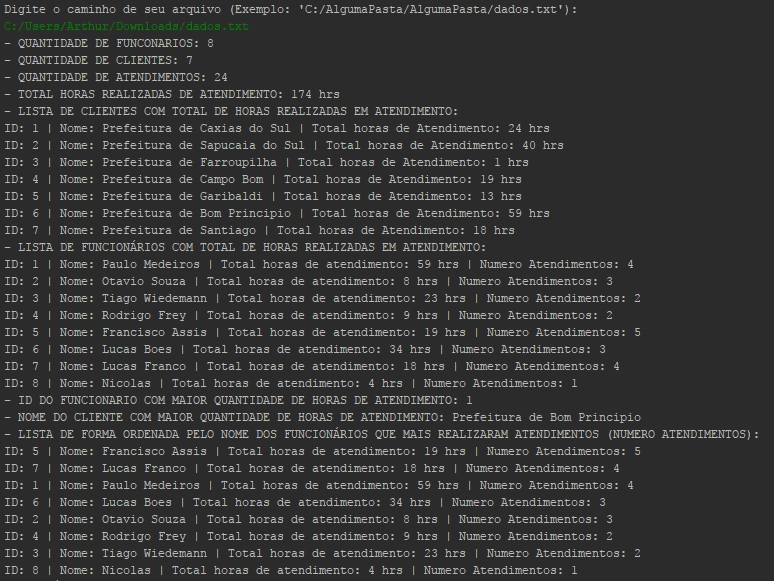
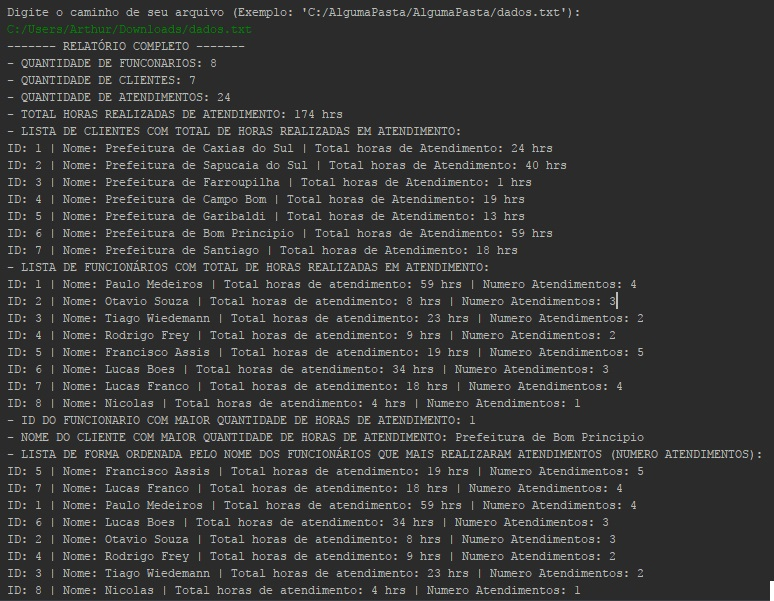
doc(img): implementar imagem de demonstração de funcionamento.

Changed region(s): [[0.0, 0.0, 0.9922, 0.9914], [0.9922, 0.9604, 1.0, 1.0]]

diff --git a/DesafioInfisc/src/desafioinfisc/DesafioInfisc.java b/DesafioInfisc/src/desafioinfisc/DesafioInfisc.java
@@ -46,7 +46,9 @@ public class DesafioInfisc {
         FuncionarioService funcionarioService = new FuncionarioService(fileLines);
         ClienteService clienteService = new ClienteService(fileLines);
         AtendimentoService atendimentoService = new AtendimentoService(fileLines);
-
+        
+        System.out.println("------- RELATÓRIO COMPLETO -------");
+        
         // Exercício a) - Quantidade de funcionários
         System.out.println("- QUANTIDADE DE FUNCONARIOS: " + funcionarioService.getQuantidadeFuncionarios());
 
